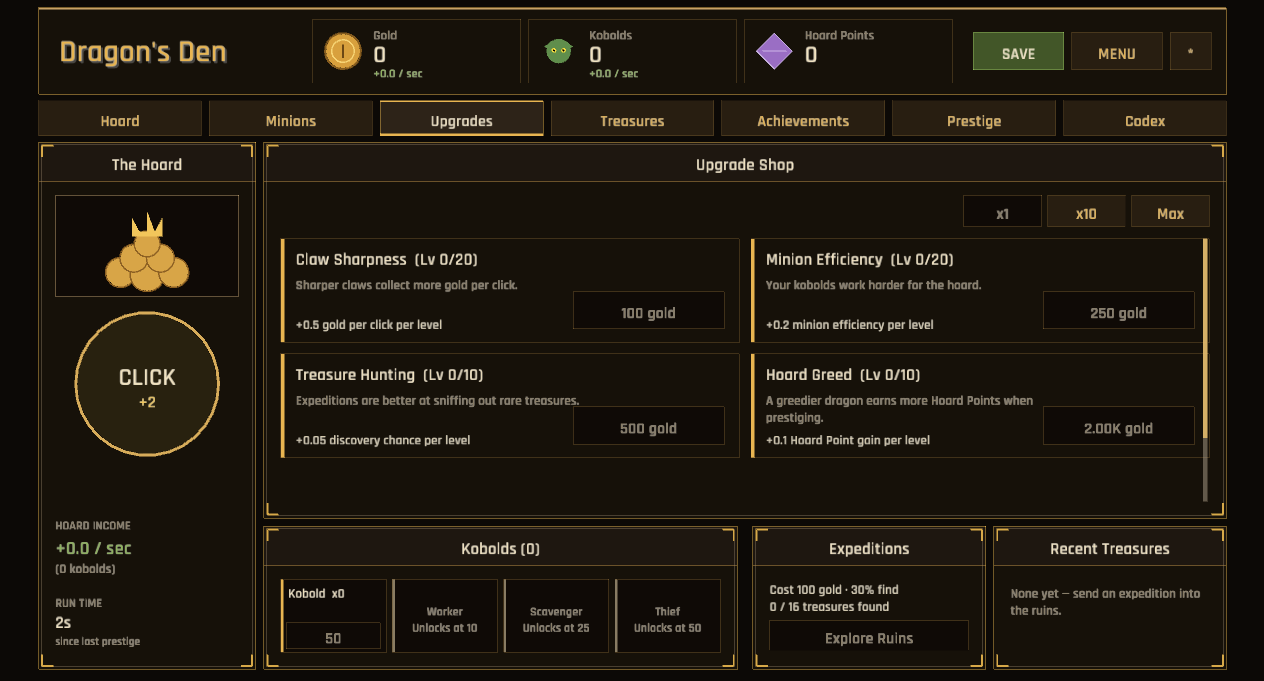
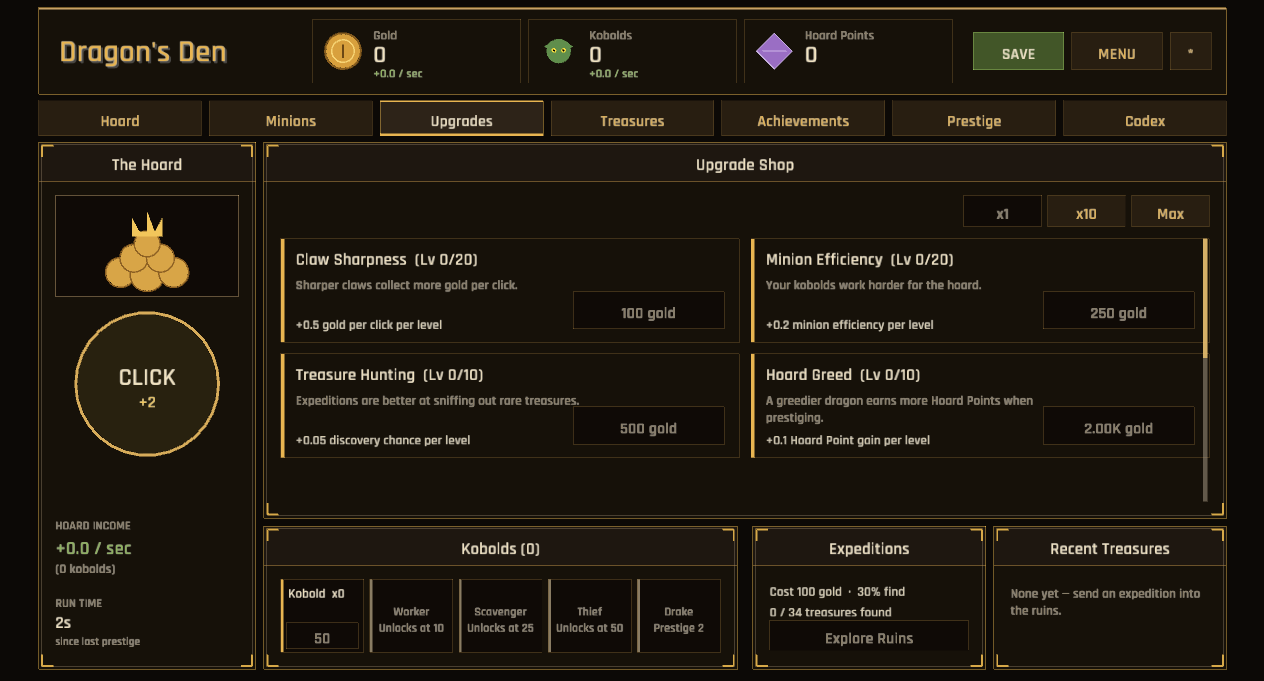
Engagement Tier 3 #10: prestige-gated upgrade lines
Prestige only ever handed out flat +% — never a qualitative "unlock". Gate
whole run-upgrade lines behind prestige so burning a hoard opens new shop
content, giving a reason to prestige that numbers alone can't.

- New UpgradeDef.prestige_required (serde default 0 → existing lines stay
  ungated, old saves load). try_buy_upgrade_bulk refuses a locked line;
  upgrade_unlocked() exposes the gate to the UI.
- Three new lines unlock across prestige 1-3: Molten Veins (+gold/sec),
  Warband Drums (+minion efficiency), Cataclysm Claws (+gold/click) — each
  stronger than its early-game cousin, the payoff for reaching that tier.
- Upgrade shop renders locked lines as dimmed "Sealed — Reach Prestige N"
  cards, so the shop reads as a chase.
- balance.rs now tracks Sim.prestige and applies the same gate in reinvest,
  so run 1 can't spend on lines it hasn't unlocked. Guards stay honest and
  green: first prestige 19.7 min; cycle 2 improved to ~30% of cycle 1 (run 2
  now buys the prestige-1 line). Extends the sim to cover the new system
  rather than weakening asserts, per the iteration rules.

(The minion Drake tier at prestige 2 and the #8 treasure gates already
deliver #10's other examples — a new minion tier and gated content.)

Validation: cargo test (45, incl. a new gate test — a gated line is refused
at prestige 0 and buyable at its required prestige), clippy, fmt all clean.
Upgrades tab captured with a throwaway scroll seed (reverted) — the three
[…]

Changed region(s): [[0.2468, 0.8634, 0.5554, 0.9559], [0.5862, 0.8634, 0.7097, 0.9251], [0.9256, 0.5242, 0.9565, 0.6476]]

diff --git a/src/simulation/balance.rs b/src/simulation/balance.rs
@@ -28,6 +28,9 @@ struct Sim {
     levels: HashMap<String, u32>,
     /// Permanent percent/multiplier bonuses (prestige tree); empty on run 1.
     percents: Bonuses,
+    /// Prestiges already done — gates which upgrade lines the sim may buy (#10),
+    /// so run 1 can't spend on lines the real player hasn't unlocked yet.
+    prestige: u32,
 }
 
 impl Sim {
@@ -37,6 +40,7 @@ impl Sim {
             goblins: 0,
             levels: HashMap::new(),
             percents: Bonuses::default(),
+            prestige: 0,
         }
     }
 
@@ -133,6 +137,12 @@ fn reinvest(sim: &mut Sim, data: &GameData, target: f64) {
         let (gcost, gmarg) = sim.goblin_marginal(data);
         consider(gcost, gmarg, "goblin", &mut best);
         for def in &data.upgrades {
+            // Prestige-gated lines (#10) are invisible until unlocked — the sim
+            // must respect the same gate the player does, or run 1 would "buy"
+            // lines it can't reach and skew the balance guards.
+            if def.prestige_required > sim.prestige {
+                continue;
+            }
             // Only income-boosting lines move the marginal gain rate. (The
             // hire-discount line lowers goblin cost, not income, so it never
             // clears the payback test here — a conservative omission that keeps
@@ -273,6 +283,8 @@ fn second_prestige_cycle_is_meaningfully_faster() {
 
     let mut run2 = Sim::new();
     run2.percents = economy::prestige_percent_bonuses(&data.prestige_upgrades, &tree);
+    // After one prestige, run 2 may buy the prestige-1-gated upgrade lines (#10).
+    run2.prestige = 1;
     let target2 = prestige::current_threshold(&data.config, 1);
     let cycle2 =
         run_to_target(&mut run2, &data, target2).expect("second threshold should be reachable");

diff --git a/src/ui/upgrades.rs b/src/ui/upgrades.rs
@@ -31,6 +31,13 @@ pub fn draw(ctx: &GameplayCtx<'_>, rect: Rect, actions: &mut Vec<UiAction>) {
         if !ui::item_fully_visible(card, view) {
             continue;
         }
+        // Prestige-gated lines (#10) show as sealed until unlocked, giving the
+        // shop a visible "prestige to open this" chase.
+        if !ctx.state.upgrade_unlocked(def) {
+            draw_locked_upgrade(card, def);
+            continue;
+        }
+
         let level = ctx
             .state
             .run
@@ -108,4 +115,34 @@ pub fn draw(ctx: &GameplayCtx<'_>, rect: Rect, actions: &mut Vec<UiAction>) {
     }
 
     ui::draw_scroll_indicator(view, total, scroll);
+}
+
+/// A dimmed, locked card for a prestige-gated upgrade line (#10): reveals the
+/// name and the prestige needed, so the shop reads as a chase.
+fn draw_locked_upgrade(card: Rect, def: &crate::data::UpgradeDef) {
+    draw_surface(
+        card,
+        &SurfaceStyle::new(theme::PANEL_DARK)
+            .with_left_accent(4.0, theme::TEXT_DIM)
+            .with_border(1.0, theme::BORDER_DIM),
+    );
+    draw_ui_text_ex(
+        &format!("{}  (Sealed)", def.name),
+        card.x + 16.0,
+        card.y + 28.0,
+        TextStyle::new(18.0, theme::TEXT_DIM).params(),
+    );
+    draw_text_block(
+        &format!(
+            "Reach Prestige {} to unlock this line.",
+            def.prestige_required
+        ),
+        card.x + 16.0,
+        card.y + 44.0,
+        card.w - 32.0,
+        40.0,
+        14.0,
+        4.0,
+        theme::TEXT_DIM,
+    );
 }

diff --git a/src/state/gameplay/tests.rs b/src/state/gameplay/tests.rs
@@ -88,6 +88,31 @@ fn bulk_upgrade_respects_max_level_and_budget() {
 }
 
 #[test]
+fn upgrade_lines_gate_behind_prestige() {
+    let (data, mut state) = setup();
+    let gated = data
+        .upgrades
+        .iter()
+        .find(|u| u.prestige_required > 0)
+        .expect("catalog should include a prestige-gated upgrade line");
+    state.run.gold = 1e12;
+
+    // Locked at prestige 0: the line is not unlocked and buying it is refused.
+    assert!(!state.upgrade_unlocked(gated));
+    assert_eq!(
+        state.try_buy_upgrade_bulk(&data, &gated.id, 1),
+        Err(BuyError::CannotAfford)
+    );
+
+    // Reaching the required prestige opens the line for purchase.
+    state.persistent.prestige_count = gated.prestige_required;
+    assert!(state.upgrade_unlocked(gated));
+    let (bought, level) = state.try_buy_upgrade_bulk(&data, &gated.id, 1).unwrap();
+    assert_eq!(bought, 1);
+    assert_eq!(level, 1);
+}
+
+#[test]
 fn prestige_below_threshold_is_refused() {
     let (data, mut state) = setup();
     state.run.gold = 999_999.0;

diff --git a/src/state/gameplay.rs b/src/state/gameplay.rs
@@ -618,6 +618,11 @@ impl GameplayState {
         })
     }
 
+    /// Whether a run upgrade line is unlocked at the current prestige (#10).
+    pub fn upgrade_unlocked(&self, def: &crate::data::UpgradeDef) -> bool {
+        self.persistent.prestige_count >= def.prestige_required
+    }
+
     /// Buys up to `requested` levels of a run upgrade, capped by its max level
     /// and by affordable gold. Returns `(bought, new_level)`.
     pub fn try_buy_upgrade_bulk(
@@ -627,6 +632,9 @@ impl GameplayState {
         requested: u32,
     ) -> Result<(u32, u32), BuyError> {
         let def = data.upgrade(id).ok_or(BuyError::UnknownId)?;
+        if !self.upgrade_unlocked(def) {
+            return Err(BuyError::CannotAfford);
+        }
         let level = self.run.upgrade_levels.get(id).copied().unwrap_or(0);
         if level >= def.max_level {
             return Err(BuyError::MaxLevel);

diff --git a/src/data/upgrades.rs b/src/data/upgrades.rs
@@ -20,6 +20,12 @@ pub struct UpgradeDef {
     pub cost_growth: f64,
     pub max_level: u32,
     pub effect: RateEffect,
+    /// Prestiges required before this line appears in the shop (engagement
+    /// review #10). Gating whole upgrade lines behind prestige gives players a
+    /// *qualitative* reason to prestige — "unlock a new line" — that a flat
+    /// multiplier can't. `serde(default)` → 0 keeps existing lines ungated.
+    #[serde(default)]
+    pub prestige_required: u32,
 }
 
 /// One of the five "Hoard Legacies" prestige tree columns (P5).

diff --git a/ENGAGEMENT_REVIEW.md b/ENGAGEMENT_REVIEW.md
@@ -46,9 +46,20 @@ ways to make it entertaining. All numbers are the ones actually shipping in
 > never offline. UI draws the orb (mapped from normalized coords into the play
 > area, so state stays pixel-ignorant) + a live Frenzy banner. Also **split the
 > gameplay test suite into `state/gameplay/tests.rs`** to bring `gameplay.rs`
-> back under the 800-line limit (was 882). Next: **Tier 3 #10** (prestige-gated
-> qualitative unlocks — a 2nd expedition slot / new upgrade line), then #11
-> (soft-caps + wall-breakers).
+> back under the 800-line limit (was 882).
+>
+> **Tier 3 #10 (prestige-gated qualitative unlocks) has landed:** run-upgrade
+> lines can now be gated behind prestige (`UpgradeDef.prestige_required`,
+> `serde(default)` 0). Three new lines unlock across prestige 1–3 — Molten
+> Veins (+gold/sec), Warband Drums (+minion efficiency), Cataclysm Claws
+> (+gold/click) — so prestiging *opens new shop content*, a reason numbers
+> alone can't give. Purchase is gated + the shop shows sealed cards with the
+> prestige needed. Crucially, `balance.rs` now tracks `Sim.prestige` and
+> respects the same gate, so run 1 can't buy unlocked-later lines: guards stay
+> honest (first prestige 19.7 min; cycle 2 improved to ~30% of cycle 1 as run 2
+> spends the prestige-1 line). Note the minion Drake tier (prestige 2) and the
+> #8 treasure gates already deliver the review's other #10 examples. Next:
+> **Tier 3 #11** (soft-caps + wall-breakers), then content depth.
 
 ---
 
